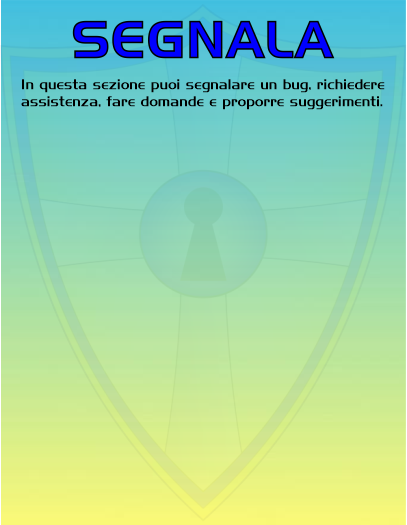
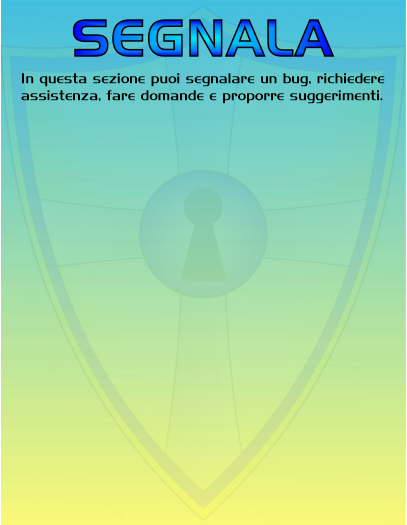
IssueGui
- Added Submit button to IssuesGui.
- Title color is now gradient instead of filled.
- Bug fixes

Changed region(s): [[0.0295, 0.0305, 0.9435, 0.2133]]

diff --git a/src/issuesgui.py b/src/issuesgui.py
@@ -35,6 +35,8 @@ class IssueGui(
         self.BG_IMG = tk.PhotoImage(file='res/issuegui_background.png', master=self)
         self.BACKBUT_IMG = tk.PhotoImage(file='res/backbut.png', master=self)
         self.BACKBUT_IMG_HOV = tk.PhotoImage(file='res/backbut_hovered.png', master=self)
+        self.SEND_IMG = tk.PhotoImage(file='res/send_issue_but.png', master=self)
+        self.SEND_IMG_HOV = tk.PhotoImage(file='res/send_issue_but_hovered.png', master=self)
         self.MARKDOWN_IMG = tk.PhotoImage(file='res/markdown.png', master=self)
         self.MARKDOWN_IMG_HOV = tk.PhotoImage(file='res/markdown_hovered.png', master=self)
 
@@ -54,10 +56,11 @@ class IssueGui(
         self.container = tk.Frame(self, width=120, height=27, relief='ridge', bd=1)
         self.labels = tk.ttk.Combobox(self.container, width=12, state='readonly', takefocus=0, font=self.labels_font,
                                       foreground='gray', values=self.tags)
-        self.text = tk.Text(self, width=50, height=13, font=self.text_font, foreground='gray', wrap='word', padx=5,
+        self.text = tk.Text(self, width=50, height=12, font=self.text_font, foreground='gray', wrap='word', padx=5,
                             pady=5, relief='ridge', bd=2)
         self.attach_but = tk.Button(self, width=35, height=1, command=self.get_attachments)
         self.remove_attach_but = tk.Button(self, width=5, height=1, command=self.remove_attachments)
+        self.send_but = tk.Button(self, image=self.SEND_IMG, bd=0, bg='#1414b3', command=self.send_issue)
         self.back_lab = tk.Label(self, image=self.BACKBUT_IMG, bg='#f0f67c')
 
         # configuration and bindings
@@ -78,6 +81,8 @@ class IssueGui(
         self.back_lab.bind('<Button-1>', lambda _: self.close())
         self.back_lab.bind("<Enter>", lambda _: self.back_lab.config(image=self.BACKBUT_IMG_HOV))
         self.back_lab.bind("<Leave>", lambda _: self.back_lab.config(image=self.BACKBUT_IMG))
+        self.send_but.bind("<Enter>", lambda _: self.send_but.config(image=self.SEND_IMG_HOV))
+        self.send_but.bind("<Leave>", lambda _: self.send_but.config(image=self.SEND_IMG))
         self.bg.tag_bind('markdown', '<Button-1>', self.markdown_guide)
         self.bg.tag_bind('markdown', '<Enter>', lambda _: self.switch_markdown('hovered'))
         self.bg.tag_bind('markdown', '<Leave>', lambda _: self.switch_markdown('normal'))
@@ -93,15 +98,21 @@ class IssueGui(
         # placing
 
         self.bg.place(x=-2, y=-2)
-        self.title.place(x=20, y=135)
-        self.container.place(x=262, y=135)
+        self.title.place(x=20, y=122)
+        self.container.place(x=262, y=122)
         self.labels.pack()
-        self.text.place(x=20, y=174)
-        self.attach_but.place(x=20, y=431)
-        self.remove_attach_but.place(x=300, y=431)
+        self.text.place(x=20, y=158)
+        self.attach_but.place(x=20, y=398)
+        self.remove_attach_but.place(x=300, y=398)
+        self.send_but.place(x=135, y=445)
         self.back_lab.place(x=6, y=480)
 
         self.mainloop()
+
+    # functions
+
+    def send_issue(self) -> None:
+        pass
 
     def empty_widget(self, widget: Literal['title', 'text'], char: tk.Event) -> None:
         key = char.__getattribute__('char')
